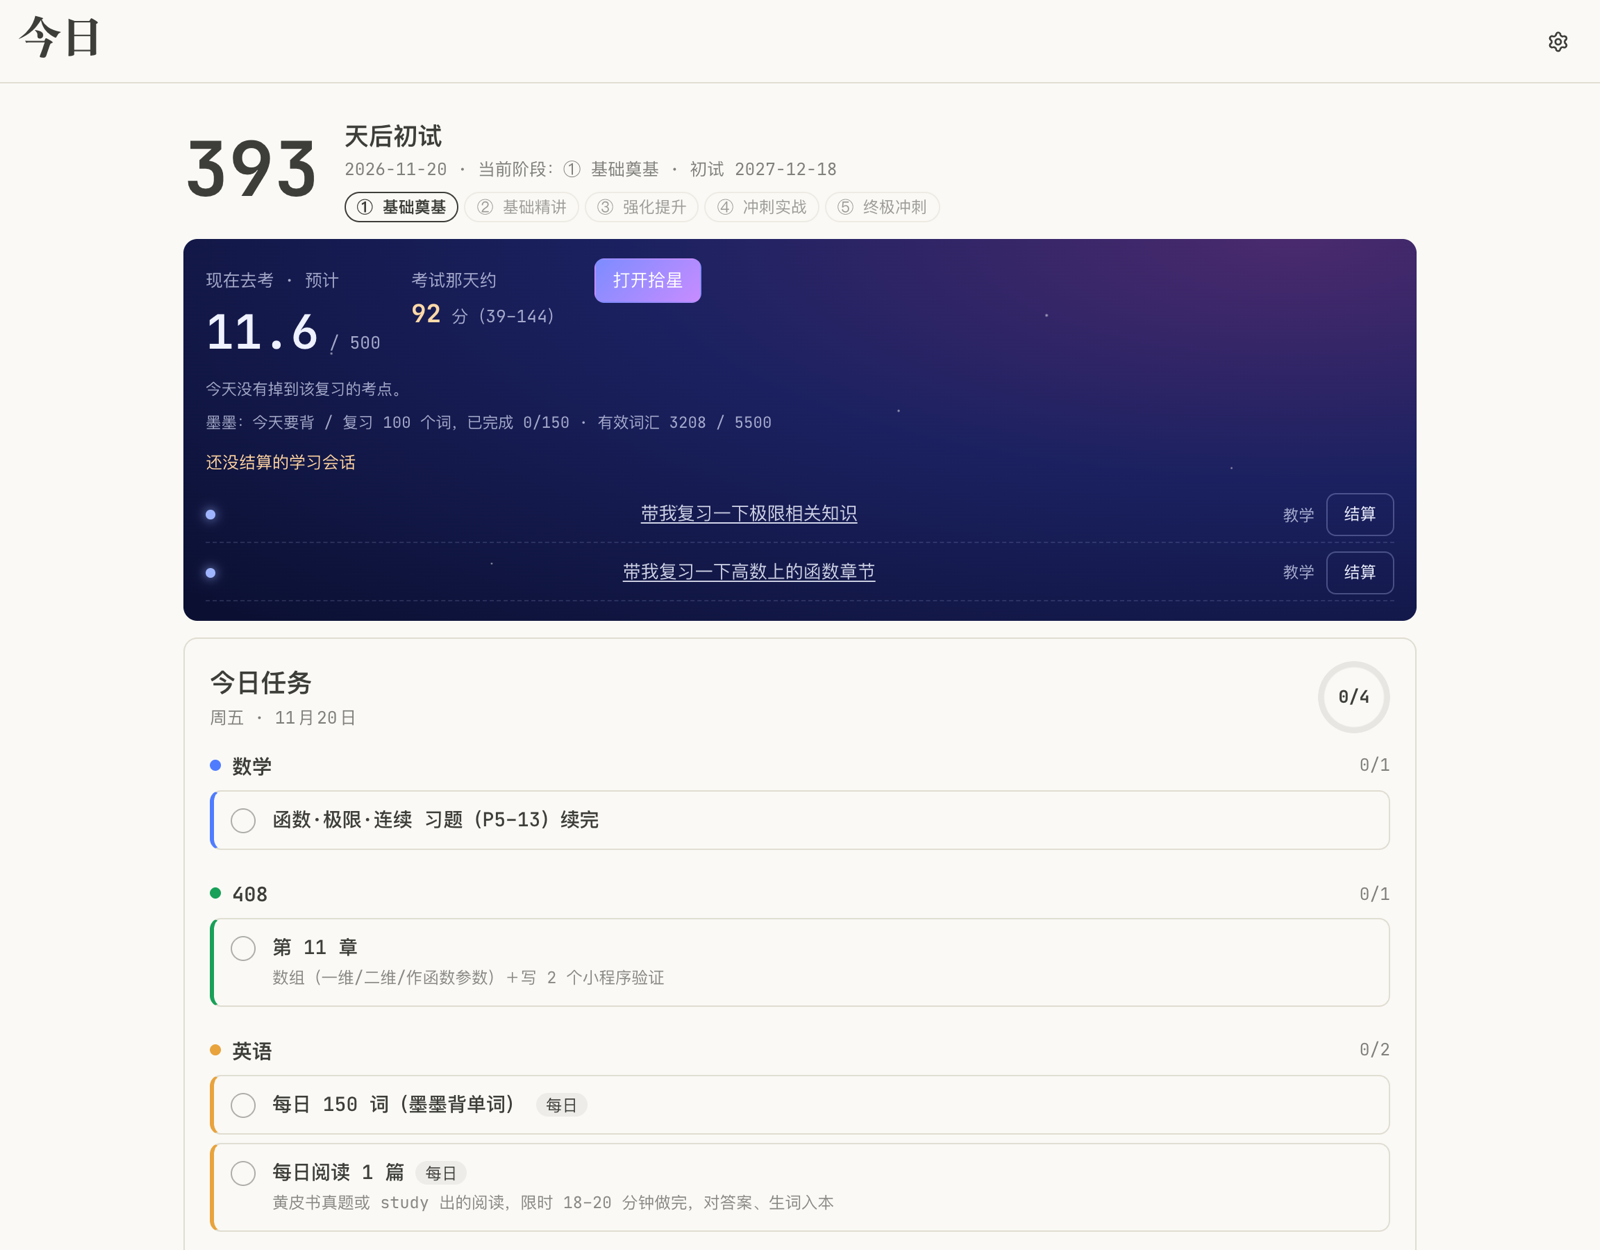
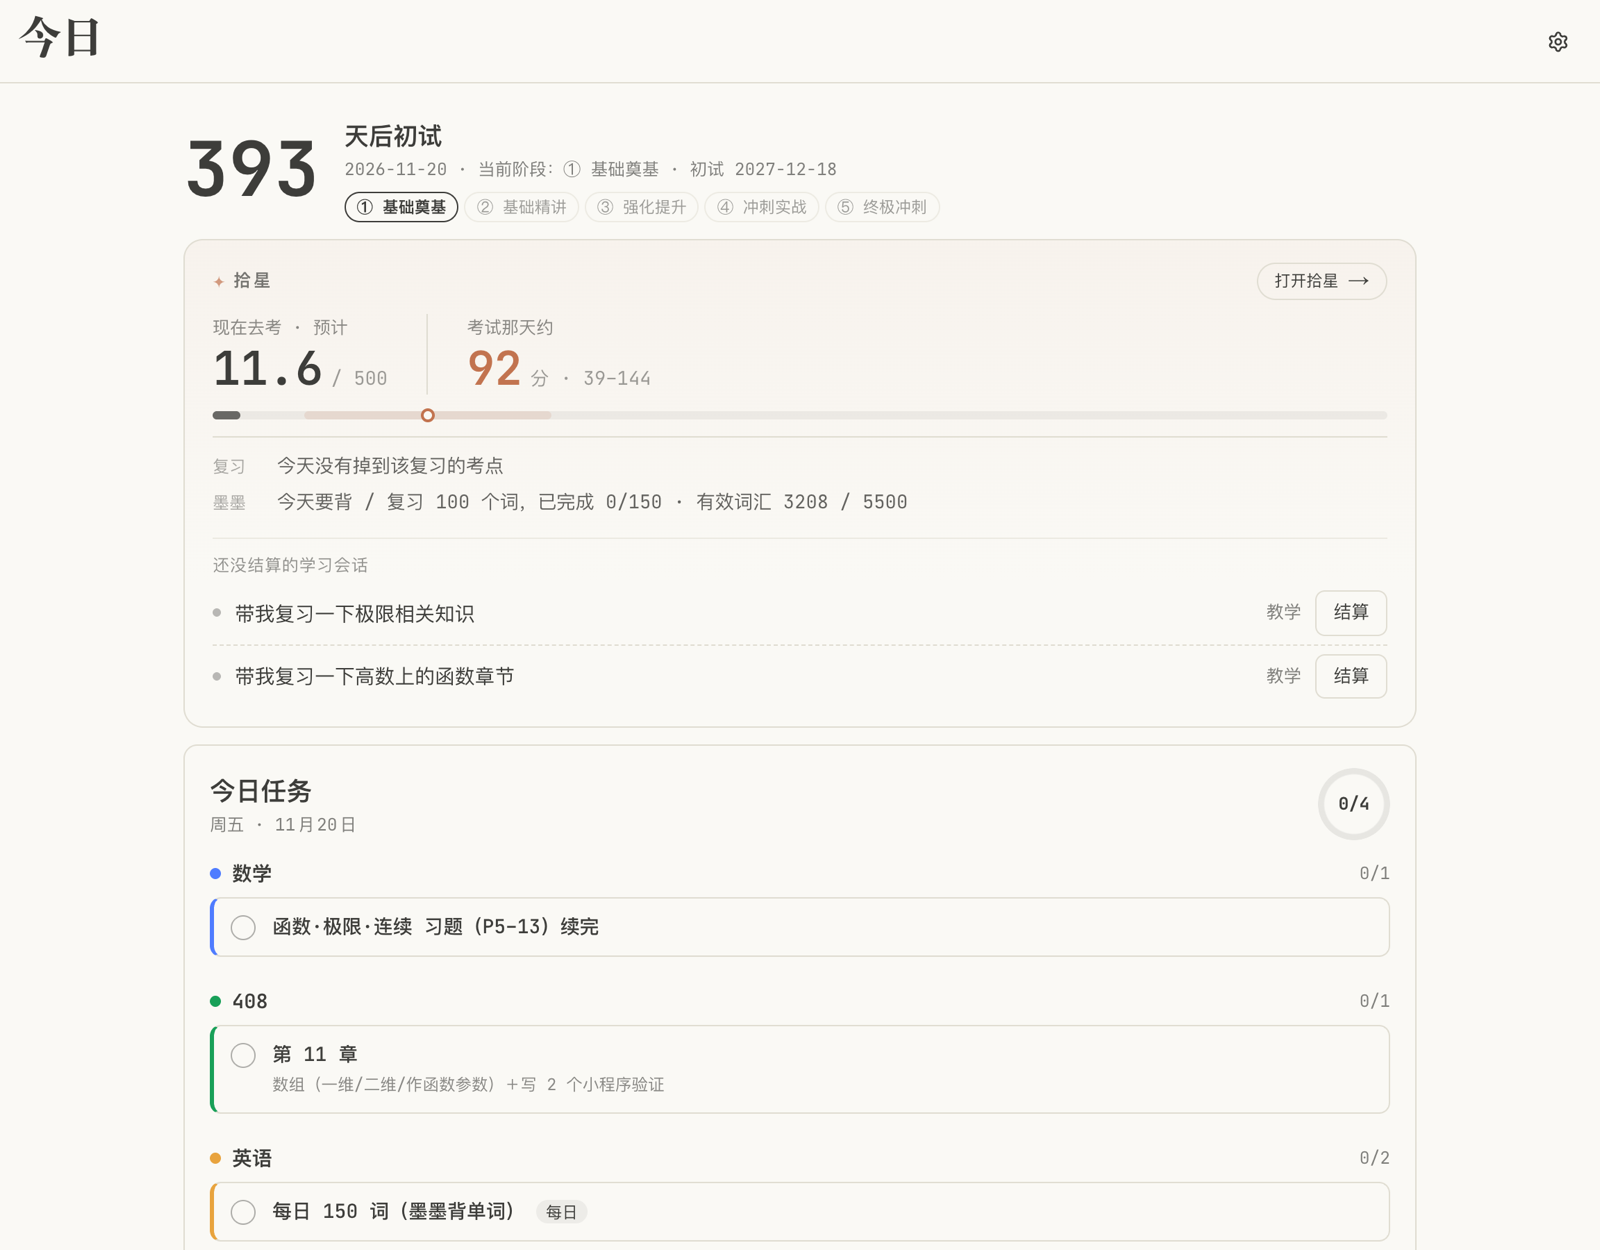
今日面板：拾星分数卡片改成跟随主题的浅色样式，加分数进度条

diff --git a/dist/styles.css b/dist/styles.css
@@ -544,19 +544,38 @@ details[open] > .ky-sum::before { transform: rotate(90deg); }
 .ky-settle-name { display: flex; flex-direction: column; font-size: 13px; } .ky-settle-name small { opacity: .55; font-size: 11px; }
 .ky-settle .ky-k-taught { background: rgba(140,110,255,.15); color: #6a4fd0; } .ky-settle .ky-k-practice { background: rgba(70,130,255,.15); color: #2f62c9; }
 /* 今日面板 · 分数卡片 */
-.ky-scorecard { position: relative; overflow: hidden; border: 0; color: #eef1ff; background: radial-gradient(120% 140% at 90% 0%, #4a2a6e 0%, #1b2160 45%, #0b1033 100%); }
-.ky-scorecard::before { content: ""; position: absolute; inset: 0; background-image: radial-gradient(1.2px 1.2px at 12% 30%, #fff, transparent), radial-gradient(1px 1px at 40% 70%, #dfe6ff, transparent), radial-gradient(1.4px 1.4px at 70% 20%, #fff, transparent), radial-gradient(1px 1px at 85% 60%, #ffe3f0, transparent), radial-gradient(1px 1px at 25% 85%, #fff, transparent), radial-gradient(1.2px 1.2px at 58% 45%, #fff, transparent); opacity: .7; pointer-events: none; }
-.ky-scorecard > * { position: relative; }
-.ky-scorecard .ky-muted, .ky-scorecard .ky-hint { color: rgba(225,230,255,.7); opacity: 1; }
-.ky-scorecard .ky-btn { border-color: rgba(190,200,255,.3); color: #eef1ff; }
-.ky-scorecard .ky-btn-primary { background: linear-gradient(135deg, #7d8cff, #c78cff); border-color: transparent; color: #fff; }
-.ky-sc-top { display: flex; flex-wrap: wrap; gap: 6px 22px; align-items: baseline; }
-.ky-sc-num { font-size: 34px; font-weight: 600; font-variant-numeric: tabular-nums; }
-.ky-sc-proj b { color: #ffd9a8; font-size: 18px; }
-.ky-sc-list { display: flex; flex-direction: column; gap: 2px; margin-top: 8px; }
-.ky-sc-item { display: grid; grid-template-columns: auto 1fr auto auto; gap: 8px; align-items: center; padding: 4px 0; border-bottom: 1px dashed rgba(190,200,255,.15); font-size: 13px; }
-.ky-sc-dot { width: 7px; height: 7px; border-radius: 50%; background: #ffb25c; box-shadow: 0 0 8px #ffb25c; }
-.ky-sc-sub { font-size: 12px; color: #ffd3a0; margin: 10px 0 2px; }
+.ky-scorecard { --sc-accent: #c2734f; --sc-soft: color-mix(in srgb, var(--sc-accent) 14%, transparent); padding: 16px 20px 14px; border-radius: 14px; background: linear-gradient(180deg, color-mix(in srgb, var(--sc-accent) 5%, var(--background)), var(--background) 70%); }
+.ky-sc-head { display: flex; align-items: center; justify-content: space-between; gap: 12px; margin-bottom: 10px; }
+.ky-sc-title { font-size: .78rem; letter-spacing: .12em; font-weight: 600; opacity: .7; display: flex; align-items: center; gap: 6px; }
+.ky-sc-spark { color: var(--sc-accent); font-size: .95rem; letter-spacing: 0; }
+.ky-sc-open { font-size: .82em; padding: 3px 12px; border-radius: 999px; }
+.ky-sc-open:hover { border-color: var(--sc-accent); color: var(--sc-accent); }
+.ky-sc-top { display: flex; flex-wrap: wrap; gap: 8px 0; }
+.ky-sc-metric { padding-right: 28px; }
+.ky-sc-metric + .ky-sc-metric { padding-left: 28px; border-left: 1px solid var(--border); }
+.ky-sc-label { font-size: .78rem; opacity: .6; }
+.ky-sc-val { display: flex; align-items: baseline; gap: 6px; }
+.ky-sc-num { font-size: 2.1rem; font-weight: 600; line-height: 1.15; font-variant-numeric: tabular-nums; letter-spacing: -.01em; }
+.ky-sc-of { font-size: .85rem; opacity: .5; font-variant-numeric: tabular-nums; }
+.ky-sc-proj .ky-sc-num { color: var(--sc-accent); }
+.ky-sc-bar { position: relative; height: 6px; margin: 12px 0 4px; border-radius: 999px; background: color-mix(in srgb, var(--foreground) 7%, transparent); }
+.ky-sc-bar i { position: absolute; top: 0; bottom: 0; border-radius: 999px; }
+.ky-sc-band { background: var(--sc-soft); }
+.ky-sc-fill { left: 0; min-width: 6px; background: var(--foreground); opacity: .75; }
+.ky-sc-mark { width: 10px; height: 10px; top: -2px !important; margin-left: -5px; background: var(--background); border: 2px solid var(--sc-accent); box-sizing: border-box; }
+.ky-sc-meta { display: flex; flex-direction: column; gap: 4px; margin-top: 12px; padding-top: 10px; border-top: 1px solid var(--border); font-size: .85rem; }
+.ky-sc-meta > div { opacity: .8; }
+.ky-sc-k { display: inline-block; min-width: 3.2em; margin-right: 8px; font-size: .75rem; opacity: .55; }
+.ky-sc-sub { font-size: .75rem; letter-spacing: .04em; opacity: .55; margin: 14px 0 2px; padding-top: 10px; border-top: 1px solid var(--border); }
+.ky-sc-list { display: flex; flex-direction: column; }
+.ky-sc-item { display: grid; grid-template-columns: auto 1fr auto auto; gap: 10px; align-items: center; padding: 6px 0; font-size: .9rem; }
+.ky-sc-item + .ky-sc-item { border-top: 1px dashed var(--border); }
+.ky-sc-name { min-width: 0; overflow: hidden; text-overflow: ellipsis; white-space: nowrap; }
+.ky-sc-link { font: inherit; color: inherit; background: none; border: 0; padding: 0; text-align: left; cursor: pointer; }
+.ky-sc-link:hover { color: var(--sc-accent); text-decoration: underline; text-underline-offset: 3px; }
+.ky-sc-dot { width: 6px; height: 6px; border-radius: 50%; background: color-mix(in srgb, var(--foreground) 35%, transparent); }
+.ky-sc-dot-due { background: #e0a040; box-shadow: 0 0 0 3px rgba(224,160,64,.18); }
+@media (prefers-color-scheme: dark) { .ky-scorecard { --sc-accent: #e0a07c; } }
 /* 成绩单 · 对预测分的影响 */
 .ky-impact { border-radius: 12px; padding: 12px 14px; margin: 12px 0; background: linear-gradient(135deg, #141a52, #3b2463); color: #eef1ff; }
 .ky-impact .ky-up { color: #9ff0c4; } .ky-impact .ky-down { color: #ffb3ba; }

diff --git a/dist/assets/today.js b/dist/assets/today.js
@@ -24,20 +24,36 @@ export function mountToday(ctx, container, signal) {
     const box = el("section", "ky-card ky-scorecard");
     if (sc.error) { put(box, el("h3", "ky-h3", "拾星"), errorBox(sc.error)); return box; }
     const f1 = (x) => (Math.round(x * 10) / 10).toFixed(1);
+    const pct = (x) => `${Math.max(0, Math.min(100, (x / 500) * 100)).toFixed(2)}%`;
     const p = sc.projection;
-    put(box,
-      el("div", "ky-sc-top",
-        el("div", null, el("div", "ky-muted", "现在去考 · 预计"), el("span", "ky-sc-num", f1(sc.total)), el("span", "ky-muted", " / 500")),
-        el("div", "ky-sc-proj", el("div", "ky-muted", "考试那天约"), el("b", null, `${Math.round(p.value)}`), el("span", "ky-muted", ` 分（${Math.round(p.low)}–${Math.round(p.high)}）`)),
-        btn("打开拾星", () => ctx.app.openView("score"), "ky-btn ky-btn-primary")));
     const v = sc.vocab || {};
+    put(box,
+      el("div", "ky-sc-head",
+        el("div", "ky-sc-title", el("span", "ky-sc-spark", "✦"), "拾星"),
+        btn("打开拾星 →", () => ctx.app.openView("score"), "ky-btn ky-sc-open")),
+      el("div", "ky-sc-top",
+        el("div", "ky-sc-metric",
+          el("div", "ky-sc-label", "现在去考 · 预计"),
+          el("div", "ky-sc-val", el("span", "ky-sc-num", f1(sc.total)), el("span", "ky-sc-of", " / 500"))),
+        el("div", "ky-sc-metric ky-sc-proj",
+          el("div", "ky-sc-label", "考试那天约"),
+          el("div", "ky-sc-val", el("span", "ky-sc-num", String(Math.round(p.value))), el("span", "ky-sc-of", ` 分 · ${Math.round(p.low)}–${Math.round(p.high)}`)))),
+      el("div", { class: "ky-sc-bar", title: `现在 ${f1(sc.total)} 分，考试那天约 ${Math.round(p.value)} 分（${Math.round(p.low)}–${Math.round(p.high)}）` },
+        el("i", { class: "ky-sc-band", style: `left:${pct(p.low)};width:calc(${pct(p.high)} - ${pct(p.low)})` }),
+        el("i", { class: "ky-sc-fill", style: `width:${pct(sc.total)}` }),
+        el("i", { class: "ky-sc-mark", style: `left:${pct(p.value)}` })));
+    const meta = el("div", "ky-sc-meta");
+    if (!sc.review.length) put(meta, el("div", null, el("span", "ky-sc-k", "复习"), "今天没有掉到该复习的考点"));
+    if (v.at || v.local) put(meta, el("div", null, el("span", "ky-sc-k", v.local ? "生词本" : "墨墨"),
+      v.local ? `有效词汇 ${v.effective} / 目标 ${v.target}（填墨墨 token 后用墨墨的数据）` : `今天要背 / 复习 ${v.due} 个词${v.progress ? `，已完成 ${v.progress.finished}/${v.progress.total}` : ""} · 有效词汇 ${v.effective} / ${v.target}`));
+    if (meta.childNodes.length) put(box, meta);
     if (sc.review.length) {
       put(box, el("div", "ky-sc-sub", `该复习了 · ${sc.reviewCount} 个考点记忆掉到 85% 以下`));
       const list = el("div", "ky-sc-list");
       for (const r of sc.review.slice(0, 6)) {
         put(list, el("div", "ky-sc-item",
-          el("span", "ky-sc-dot"),
-          el("span", null, r.name, el("span", "ky-muted", ` · ${r.subject} ${r.chapter}`)),
+          el("span", "ky-sc-dot ky-sc-dot-due"),
+          el("span", "ky-sc-name", r.name, el("span", "ky-muted", ` · ${r.subject} ${r.chapter}`)),
           el("span", "ky-muted", `记忆 ${Math.round(r.R * 100)}%`),
           btn("用真题练", async () => {
             try {
@@ -49,15 +65,14 @@ export function mountToday(ctx, container, signal) {
           }, "ky-btn ky-input-sm")));
       }
       put(box, list);
-    } else put(box, el("p", "ky-hint", "今天没有掉到该复习的考点。"));
-    if (v.at || v.local) put(box, el("p", "ky-hint", v.local ? `生词本：有效词汇 ${v.effective} / 目标 ${v.target}（填墨墨 token 后用墨墨的数据）` : `墨墨：今天要背 / 复习 ${v.due} 个词${v.progress ? `，已完成 ${v.progress.finished}/${v.progress.total}` : ""} · 有效词汇 ${v.effective} / ${v.target}`));
+    }
     if (sc.unsettled?.length) {
       put(box, el("div", "ky-sc-sub", "还没结算的学习会话"));
       const list = el("div", "ky-sc-list");
       for (const s of sc.unsettled.slice(0, 5)) {
         put(list, el("div", "ky-sc-item",
-          el("span", { class: "ky-sc-dot", style: "background:#9fb4ff;box-shadow:0 0 8px #9fb4ff" }),
-          el("button", { type: "button", class: "ky-link", onclick: () => ctx.app.openSession(s.id) }, s.title),
+          el("span", "ky-sc-dot"),
+          el("button", { type: "button", class: "ky-sc-name ky-sc-link", onclick: () => ctx.app.openSession(s.id) }, s.title),
           el("span", "ky-muted", s.settled ? "有新内容" : s.kind === "practice" ? "练习" : "教学"),
           btn("结算", () => openSettleDialog(ctx, s.id), "ky-btn ky-input-sm")));
       }
